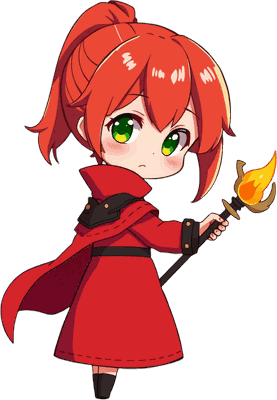
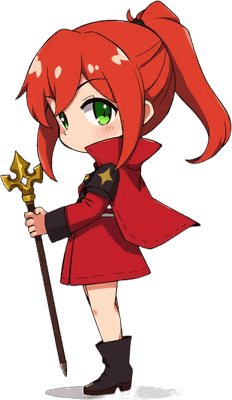
v0.69.0: 顔の大きさを「両目の幅」で測るようにする + 学士の首と紅蓮の向き
報告: 「学士の首が長すぎる」「学士の顔がまだ大きい」「紅蓮の顔が正面すぎる」
      「顔の大きさは目の大きさと両目の距離で測るとよい」

・測り方を教えてもらったとおりに変えた。今までは肌の幅や髪込みの頭の幅で
  測っていたが、前髪・帽子・髭で隠れる子ほど小さく出て、体感と合わなかった。
  両目の外端から外端までなら、絵柄が同じ限り顔の大きさに比例する。
  測り直すと 学士43.2% / 蒼氷43.5% が最大、紫紺27.5% が最小 ―
  「学士の顔が大きい」という指摘と一致した
・学士の首: チビ絵では首がほぼ見えないのが普通。共通の指定は触らず、
  この子にだけ「首を出さない」を足した
・紅蓮: 顔が正面すぎたので、45度に向いた種を選び直した。この種は最初から
  右を向くので反転が要らない(反転は前に出る足が入れ替わるので避けたい)
・head_size.py に注意書きを追加。減色(--shrink)の後に測ると肌の色が動いて
  数値がずれる(実際に 127px → 181px と食い違った)

diff --git a/shared/characters.ts b/shared/characters.ts
@@ -29,29 +29,31 @@ export const CHAR_CHANGE_COST = 200;
 //   絵はどれも同じ高さに縮小されるので、頭身が違うと頭の大きさが揃わない。
 //   ここで1体ごとに拡大・縮小して、頭の大きさを揃える(性能には影響しない)。
 //
-//   大きさは tools/artgen/head_size.py で測る。測るのは「目の高さでの絵の横幅」で、
-//   髪まで含めた頭の幅になる。肌の幅だけで測ると、長髪や帽子の子ほど
-//   頭が小さいと誤って出る(見て感じる頭の大きさは髪込みのため)。
+//   大きさは tools/artgen/head_size.py で測る。見るのは「両目の外端から
+//   外端までの幅」。顔の大きさは目で測るのがいちばん当てになる ―
+//   肌の幅は前髪・帽子・髭で隠れ、髪込みの頭の幅は髪型の量で変わるが、
+//   目の大きさと間隔は絵柄が同じなら顔の大きさにそのまま比例する。
+//   ※ 減色(--shrink)の前に測ること。減色すると肌の色が動いて数値がずれる。
 //
 //   測定値を揃える倍率をそのまま入れてはいけない。倍率は全身にかかるので、
 //   寄せすぎると背丈が不自然に変わる(実際に「背が高すぎる」と指摘を受けた)。
 //   ±8%までに抑え、頭を揃えきるより背丈の自然さを優先する。
 //   帽子や髭のある子は測定値そのものが当てにならない(紫紺は測ると1.37倍
 //   必要と出るが、そのとおりにすると1人だけ見上げるほど大きくなる)。
-// 測定値(頭の幅 / 全身の高さ): 43.5% / 40.2% / 44.8% / 47.2% / 31.5% / 46.5%(平均 42.3%)
+// 測定値(両目の幅 / 全身の高さ): 35.5% / 43.2% / 31.2% / 39.8% / 27.5% / 43.5%(平均 36.8%)
 export const CHARACTERS: CharacterDef[] = [
   { id: 0, name: '黒金の魔女', note: '雷を操り、魔導書に真理を読む',
-    element: 'thunder', scale: 1.00 },
+    element: 'thunder', scale: 1.03 },
   { id: 1, name: '白銀の学士', note: '風を読み、記録と観測を重んじる',
-    element: 'wind', scale: 1.04 },
+    element: 'wind', scale: 0.90 },
   { id: 2, name: '紅蓮の戦導士', note: '炎を纏い、前へ出て杖を振るう',
-    element: 'fire', scale: 1.00 },
+    element: 'fire', scale: 1.05 },
   { id: 3, name: '翠緑の薬導士', note: '水を扱い、調合と薬に通じた癒し手',
-    element: 'water', scale: 0.94 },
+    element: 'water', scale: 0.95 },
   { id: 4, name: '紫紺の導師', note: '大地を鎮める、古き術の大魔導士',
-    element: 'earth', scale: 1.00 },
+    element: 'earth', scale: 1.05 },
   { id: 5, name: '蒼氷の術士', note: '氷を結び、静けさの中で術を編む',
-    element: 'ice', scale: 0.96 },
+    element: 'ice', scale: 0.90 },
 ];
 
 // 表示倍率(範囲外なら等倍)

diff --git a/shared/version.ts b/shared/version.ts
@@ -4,6 +4,6 @@
 // BUILD_DATE は npm run build のたびに tools/stamp-version.mjs が
 // 実際の時刻(日本時間)で書き換えるので、手で触らないこと。
 
-export const VERSION = '0.68.0';
-export const BUILD_DATE = '2026-08-07 07:03';
+export const VERSION = '0.69.0';
+export const BUILD_DATE = '2026-08-07 07:14';
 export const COPYRIGHT = 'Copyright © 2026 YuriPapa';

diff --git a/tools/artgen/head_size.py b/tools/artgen/head_size.py
@@ -12,6 +12,9 @@
 # 出た倍率をそのまま入れず、指摘のあった子だけ半分ほど寄せるのが安全。
 #
 #   python head_size.py
+#
+# ※ 必ず --shrink(減色)の前に測ること。減色すると肌の色がわずかに動き、
+#   肌の判定から外れて数値が変わる(実際に 127px → 181px と食い違った)。
 
 import os
 import sys
@@ -29,6 +32,44 @@ from PIL import Image  # noqa: E402
 NAMES = ['黒金の魔女', '白銀の学士', '紅蓮の戦導士', '翠緑の薬導士', '紫紺の導師',
          '蒼氷の術士']
 TOP = 0.40  # 顔を探す範囲(上から何割まで)
+
+
+def eye_span(path):
+    """両目の外端から外端までの幅を返す(全身の高さに対する割合も)。
+
+    顔の大きさは目で測るのがいちばん当てになる。
+    肌の幅は前髪・帽子・髭でいくらでも隠れ、髪込みの頭の幅は髪型の量で変わる。
+    目の大きさと両目の間隔は絵柄が同じなら顔の大きさにそのまま比例する。
+
+    探し方: 顔(肌)の枠の中で「肌でも白でもない暗い画素」がいちばん多い行を
+    目の高さとみなし、その行の左端から右端までを測る。
+    """
+    im = Image.open(path).convert('RGBA')
+    a = np.asarray(im).astype(int)[:int(im.height * TOP)]
+    r, g, b, al = a[..., 0], a[..., 1], a[..., 2], a[..., 3]
+    body = al > 128
+    skin = (body & (r > 205) & (g > 160) & (g < 235)
+            & (b > 140) & (b < 220) & (r > b + 20) & (r >= g))
+    ys, xs = np.where(skin)
+    if len(xs) == 0:
+        return None, im.height
+    x0, x1 = int(xs.min()), int(xs.max())
+    y0, y1 = int(ys.min()), int(ys.max())
+
+    box = np.zeros_like(body)
+    box[y0:y1 + 1, x0:x1 + 1] = True
+    lum = (r + g + b) / 3
+    dark = box & body & ~skin & (lum < 120)
+    counts = dark.sum(axis=1)
+    if counts.max() < 6:
+        return None, im.height
+    row = int(counts.argmax())
+    # 目の高さの前後数行をまとめて見る(片目だけ拾うのを防ぐ)
+    lo, hi = max(0, row - 4), min(dark.shape[0], row + 5)
+    cols = np.where(dark[lo:hi].any(axis=0))[0]
+    if len(cols) == 0:
+        return None, im.height
+    return int(cols[-1] - cols[0] + 1), im.height
 
 
 def face_width(path):
@@ -67,7 +108,7 @@ def face_width(path):
 
 
 def main():
-    print('キャラ         顔(肌)   頭(髪込み)  全身に対する頭の割合')
+    print('キャラ         顔(肌)  頭(髪込み)  両目の幅  全身に対する両目の幅')
     ratios = []
     for i, name in enumerate(NAMES, start=1):
         path = os.path.join(IMG_DIR, 'player', f'{i}.png')
@@ -80,8 +121,13 @@ def main():
             print(f'{name:12} 顔が見つからない')
             ratios.append(None)
             continue
-        ratios.append(hw / h)
-        print(f'{name:12} {fw:4}px    {hw:4}px     {hw / h:.1%}')
+        ew, _ = eye_span(path)
+        if ew is None:
+            ratios.append(hw / h)
+            print(f'{name:12} {fw:4}px   {hw:4}px    目が拾えない')
+            continue
+        ratios.append(ew / h)
+        print(f'{name:12} {fw:4}px   {hw:4}px    {ew:4}px   {ew / h:.1%}')
 
     got = [r for r in ratios if r]
     if not got:
